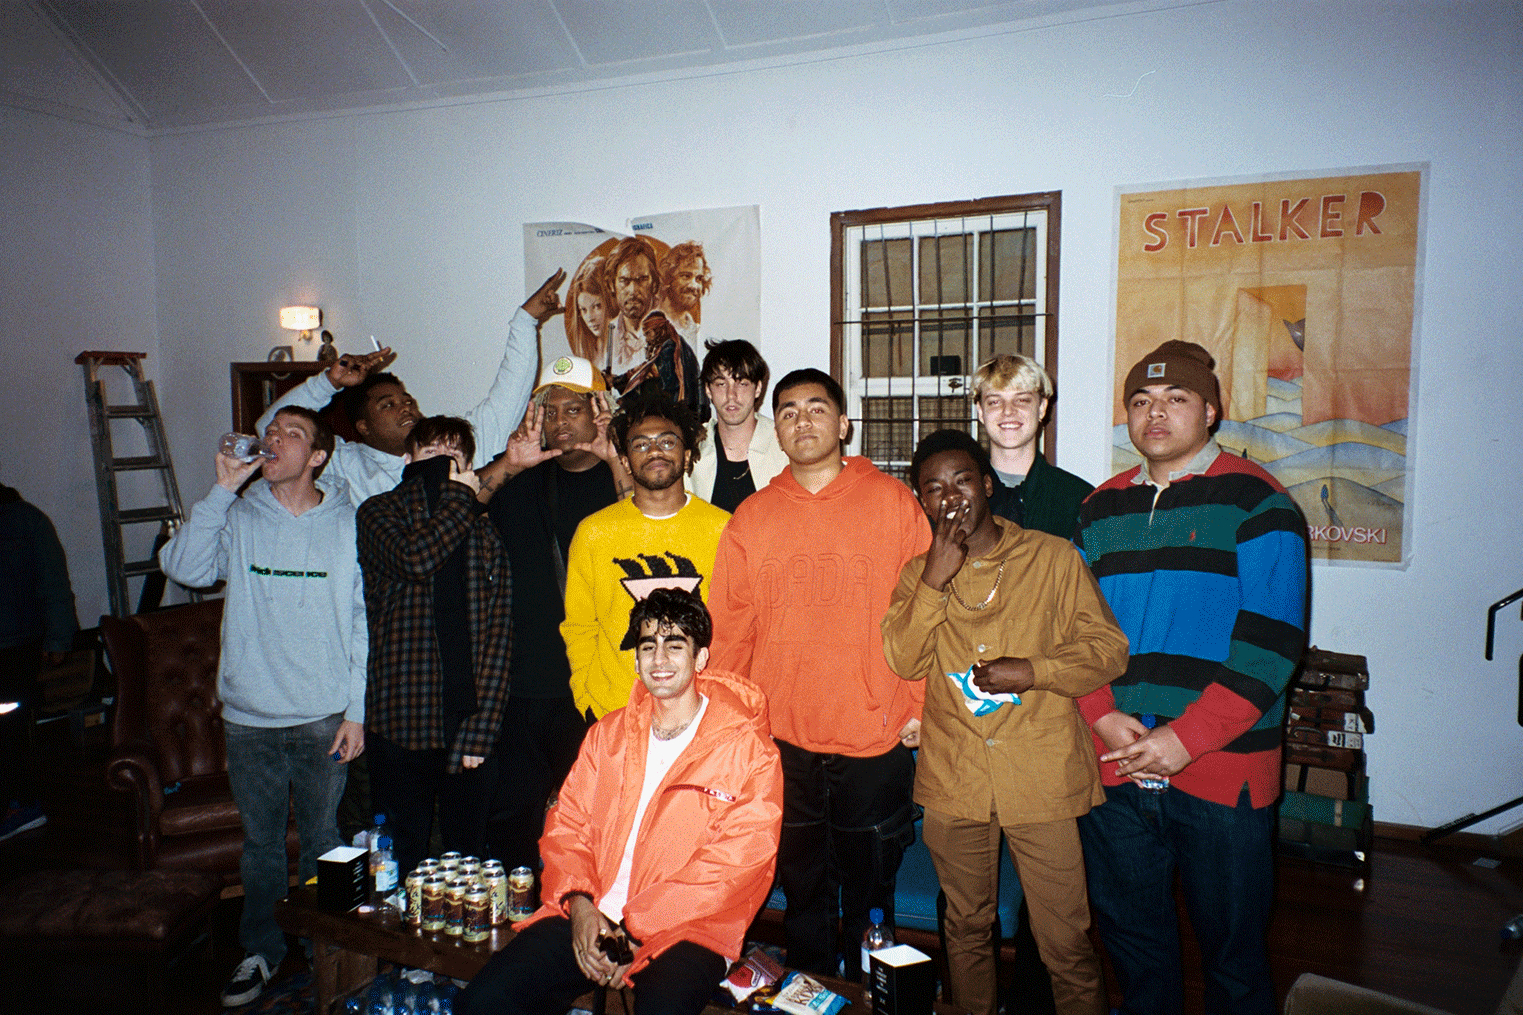
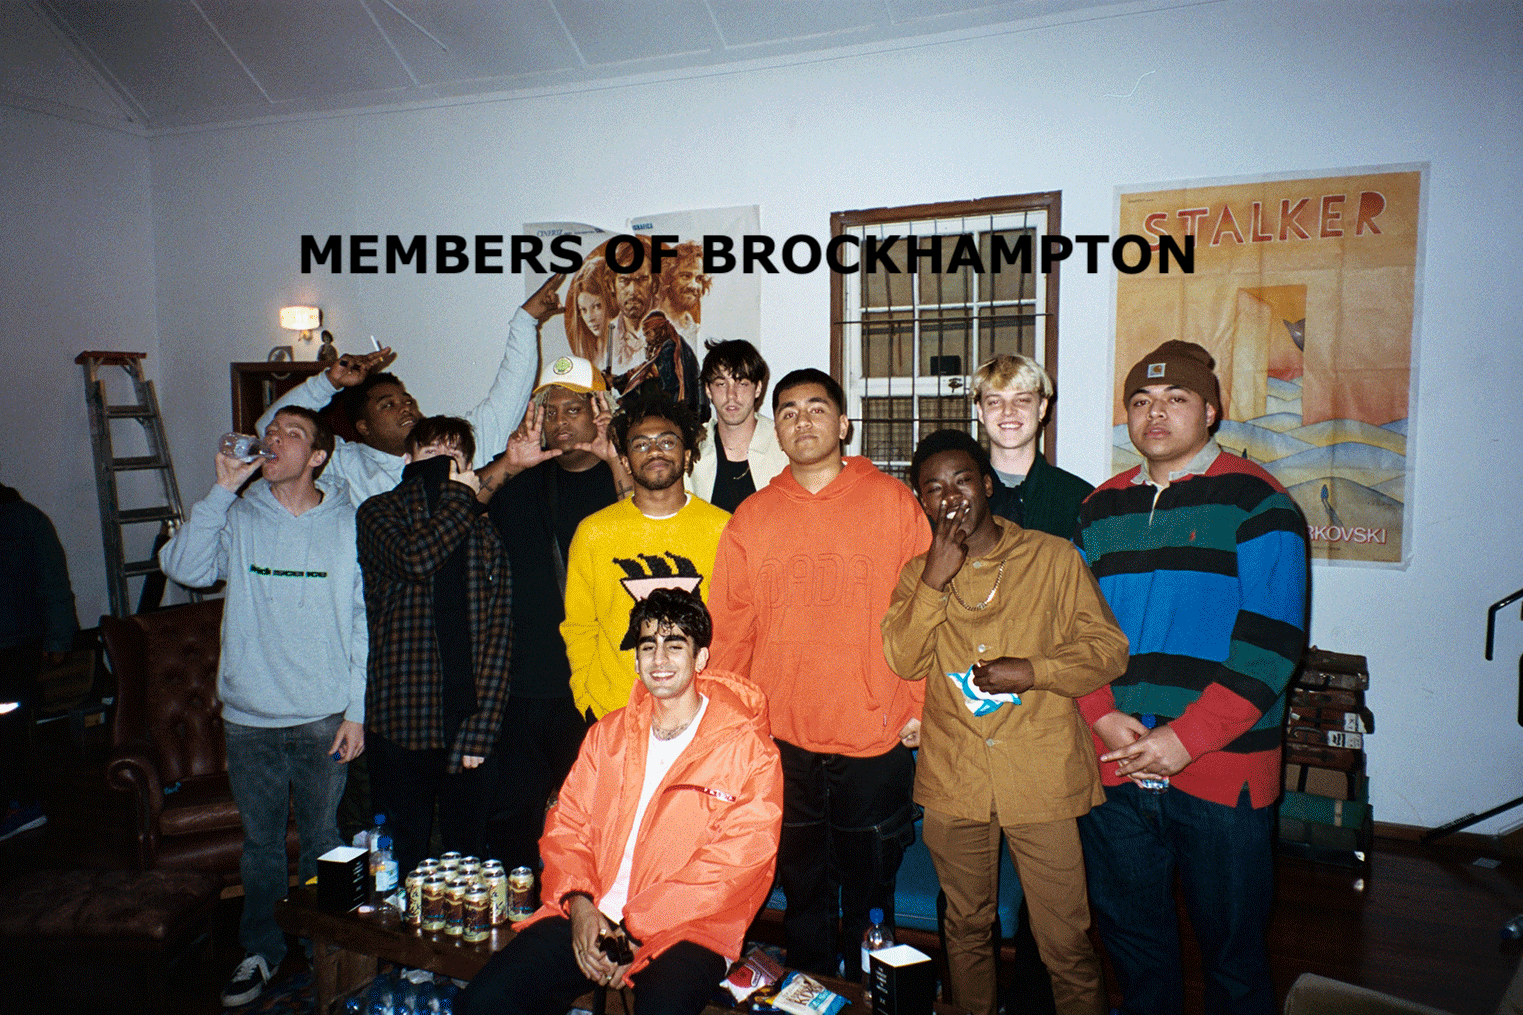
memberspage

Changed region(s): [[0.1852, 0.2138, 0.8024, 0.2749]]

diff --git a/members.html b/members.html
@@ -17,69 +17,69 @@
         <li><a href="https://17498.github.io/Website1/index.html">KERI</a></li>
     </ul>
 
-    <h1>MEMBERS OF BROCKHAMPTON</h1>
-
-    <div class="parallax"></div>
-    <div style="height:1000px;background-color:rgba(255, 0, 0, 0);">
-        <p>the vocals of BH</p>
-        <table class="a">
-
-            <tr>
-                <td width="15%"><img src="matt.png" width="55%" height="30%"></td>
-                <td width="35%"><h3>Matt Champion</h3>Birth Name: Matthew Champion <br> Born: 14 February, 1995 <br> Birth Place: Woodland, Texas <br> Role In BH: Rapper, Singer, Songwriter</td>
-                <td width="15"><img src="bearface.png" width="55%" height="30%"></td>
-                <td width="35"><h3>Bearface</h3>Birth Name: Ciarán McDonald <br> Born: 23 April, 1993 <br> Birth Place: Belfast, Ireland <br> Role In BH: Singer, record producer, instrumentalist</td>
-                </td>
-            </tr>
-            <tr>
-                <td width="15%"><img src="merlyn.png" width="55%" height="30%"></td>
-                <td width="35%"><h3>Meryln Wood</h3>Birth Name: William Anku Kraka <br>Mawuli Andoh Wood Jr. <br> Born: 1 May, 1996 <br> Birth Place: Accra, Ghana <br> Role In BH: Rapper, Songwriter</td>
-                <td width="15%"><img src="kevin.png" width="55%" height="30%"></td>
-                <td width="35"><h3>Kevin Abstract</h3>Birth Name: Clifford Ian Simpson <br> Born: 16 July 1996 <br> Birth Place: Corpus Christi, Texas <br> Role In BH: Rapper, Singer, Songwriter</td>
-            </tr>
-            <tr>
-                <td width="15%"><img src="joba.png" width="55%" height="30%"></td>
-                <td width="35"><h3>Joba</h3>Birth Name: Russel Boring <br> Born: 5 August 1993 <br> Birth Place: Houston, Texas <br> Role In BH: Rapper, singer, songwriter, audio engineer, record producer</td>
-                <td width="15%"><img src="dom.png" width="55%" height="30%"></td>
-                <td width="35"><h3>Dom McLennon</h3>Birth Name: Dominique Simpson <br> Born: 10 July, 1992 <br> Birth Place: East Hartford, Connecticut <br> Role In BH: Rapper, songwriter</td>
-            </tr>
-        </table>
-</div>
-  
-            
-<table class="a" style="background-color: rgba(77, 190, 218, 0.658);">
-<tr>
-<td>NonVocals of BH</td>
-</tr>
-<tr>
-    <td width="15"><img src="jambari1.png" width="55%" height="30%"></td>
-    <td width="35%"><h3>Jabari Manwa</h3>Birth Name: Jabari Chester Manwarring <br> Born: 3 September, 1995 <br> Birth Place: St. George's, Grenada <br> Role In BH: Producer</td>
-    <td width="15%"><img src="kiko1.png" width="55%" height="30%"></td>
-    <td width="35%"><h3>Kiko Merely</h3>Birth Name: Isaiah Merriweather <br> Born: 2 March, 1997<br> Birth Place: Jacksonville, Florida <br> Role In BH: Producer</td>
-</td>
-</tr>
-<tr>
-    <td width="15%"><img src="romil1.png" width="55%" height="30%"></td>
-    <td width="35"><h3>Romil Hemmani</h3>Birth Name: Romil Hemmani <br> Born: 6 April, 1995 <br> Birth Place: South Windsor, Connecticut <br> Role In BH: Record producer, DJ, audio engineer</td>
-    <td width="15%"><img src="jon1.png" width="55%" height="30%"></td>
-    <td width="35%"><h3>Jon Nunes</h3>Birth Name: Jon Nunes <br> Born: 12 July, 1992 <br> Birth Place: United States <br> Role In BH: Manager</td>
-</tr>
-<tr>
-    
-    <td width="15"><img src="hk1.png" width="55%" height="30%"></td>
-    <td width="35"><h3>HK </h3>Birth Name: Henock Sileshi <br> Born: 19 September, 1994  <br> Birth Place: Jacksonville, Florida <br> Role In BH: Creative director, graphic artist</td>
-    <td width="15%"><img src="robert1.png" width="55%" height="30%"></td>
-    <td width="35"><h3>Roberto </h3>Birth Name: Robert Ontenient <br> Born: 1 November, 1995 <br> Birth Place: Miami, Florida <br> Role In BH: Web and designer</td>
-</tr>
-<tr>
-    <td width="15%"><img src="ash.png" width="55%" height="30%"></td>
-    <td width="35%"><h3>Ashlan Grey</h3>Birth Name: Ashlan grey <br> Born: 4 August, 1995 <br> Birth Place: Glen Rose, Texas <br> Role In BH: Photographer, videographer</td>
-</tr>
+<div class="parallax"></div>
+<div style="height:200%;background-color:rgba(255, 255, 255, 0.925);">
+<table>
+    <tr>
+    <br><br>
+    <td><h2>Vocals of BH</h2></td>
+    </tr>
+    <tr>
+        <td width="15%"><img src="matt.png" width="55%" height="30%"></td>
+        <td width="35%"><h3>Matt Champion</h3>Birth Name: Matthew Champion <br> Born: 14 February, 1995 <br> Birth Place: Woodland, Texas <br> Role In BH: Rapper, Singer, Songwriter</td>
+        <td width="15"><img src="bearface.png" width="55%" height="30%"></td>
+        <td width="35"><h3>Bearface</h3>Birth Name: Ciarán McDonald <br> Born: 23 April, 1993 <br> Birth Place: Belfast, Ireland <br> Role In BH: Singer, record producer, instrumentalist</td>
+    </tr>
+    <tr>
+        <td width="15%"><img src="merlyn.png" width="55%" height="30%"></td>
+        <td width="35%"><h3>Meryln Wood</h3>Birth Name: William Anku Kraka <br>Mawuli Andoh Wood Jr. <br> Born: 1 May, 1996 <br> Birth Place: Accra, Ghana <br> Role In BH: Rapper, Songwriter</td>
+        <td width="15%"><img src="kevin.png" width="55%" height="30%"></td>
+        <td width="35"><h3>Kevin Abstract</h3>Birth Name: Clifford Ian Simpson <br> Born: 16 July 1996 <br> Birth Place: Corpus Christi, Texas <br> Role In BH: Rapper, Singer, Songwriter</td>
+    </tr>
+    <tr>
+        <td width="15%"><img src="joba.png" width="55%" height="30%"></td>
+        <td width="35"><h3>Joba</h3>Birth Name: Russel Boring <br> Born: 5 August 1993 <br> Birth Place: Houston, Texas <br> Role In BH: Rapper, singer, songwriter, audio engineer, record producer</td>
+        <td width="15%"><img src="dom.png" width="55%" height="30%"></td>
+        <td width="35"><h3>Dom McLennon</h3>Birth Name: Dominique Simpson <br> Born: 10 July, 1992 <br> Birth Place: East Hartford, Connecticut <br> Role In BH: Rapper, songwriter</td>
+    </tr>
 </table>
+
+<table style="background-color: rgba(77, 190, 218, 0.589);">
+    <tr>
+        <br><br>
+        <td><h2>NonVocals of BH</h2></td>
+    </tr>
+    <tr>
+        <td width="15%"><img src="jambari1.png" width="55%" height="30%"></td>
+        <td width=35%><h3>Jabari Manwa</h3> Birth Name: Jabari Chester Manwarring <br> Born: 3 September, 1995 <br> Birth Place: St. George's, Grenada <br> Role in Brockhampton: Producer</td>
+        <td width="15%"><img src="kiko1.png" width="55%" height="30%"></td>
+        <td width=35%><h3>Kiko Merely</h3> Birth Name: Isaiah Merriweather <br> Born: 2 March, 1997 <br> Birth Place: Jacksonville, Florida <br> Role in Brockhampton: Producer</td>
+    </tr>
+    <tr>
+        <td width="15%"><img src="romil1.png" width="55%" height="30%"></td>
+        <td width=35%><h3>Romil Hemmani</h3> Birth Name: Romil Hemmani <br> Born: 6 April, 1995 <br> Birth Place: South Windsor, Connecticut <br> Role In BH: Record producer, DJ, audio engineer</td>
+        <td width="15%"><img src="jon1.png" width="55%" height="30%"></td>
+        <td width=35%><h3>Jon Nunes</h3> Birth Name: Jon Nunes <br> Born: 12 July, 1992 <br> Birth Place: United States <br> Role In BH: Manager</td>
+    </tr>
+    <tr>         
+        <td width="15%"><img src="hk1.png" width="55%" height="30%"></td>
+        <td width=35%><h3>HK </h3>Birth Name: Henock Sileshi <br> Born: 19 September, 1994 <br>Birth Place: Jacksonville, Florida <br> Role In BH: Creative director, graphic artist</td>
+        <td width="15%"><img src="robert1.png" width="55%" height="30%"></td>
+        <td width=35%><h3>Roberto </h3>Birth Name: Robert Ontenient  <br> Born: 1 November, 1995 <br>Birth Place: Miami, Florida <br> Role In BH: Web and designer</td>
+    </tr>
+    <tr>
+        <td width="15%"><img src="ash.png" width="55%" height="30%"></td>
+        <td width=35%><h3>Ashlan Grey</h3>Birth Name: Ashlan grey<br> Born: 4 August, 1995 <br>Birth Place: Glen Rose, Texas  <br> Role In BH: Photographer, videographer</td>
+    </tr>
+    </table>
+        
+
+<div class="footer">
+</div>
         
 
+<div class="footer">
+    </div>
 
-        <div class="footer">
-        </div>
     </body>
 </html>

diff --git a/index.html b/index.html
@@ -23,9 +23,7 @@
         <slide><p>BROCKHAMPTON</p></slide>
         <slide><p></p></slide>
     </slider>
-    <br><br><br><br><br><br><br><br><br><br><br><br><br><br><br><br><br><br><br><br><br><br><br><br><br><br><br><br><br><br><br><br><br><br><p>                                                                       </p>
     <img src="brockhampton.jpg" width="95%" height="5%">
-    <br><br><br><br><br><br><br><br><br><br><br><br><br><br><br><br><br><br><br><br><br><br><br><br><br><br><br><br><br><br><br><br><br><br><br><br><br><br>
     Brockhampton is very cool Lorem ipsum, dolor sit amet consectetur adipisicing elit. Pariatur, ea veniam ducimus nesciunt quis culpa. Obcaecati sint neque officiis earum nostrum ullam atque tempora sed. Cum praesentium deserunt error facilis adipisci, officiis, odio veritatis et nisi tenetur necessitatibus culpa iusto sapiente nam consequuntur aliquid. Quod molestiae alias nisi libero laboriosam molestias reprehenderit nihil quasi quidem? Molestias laborum odit distinctio similique quisquam atque debitis, iusto architecto eius illum obcaecati explicabo! Quae accusamus at deserunt voluptatum omnis sit ea mollitia quibusdam nam doloremque ad sequi eligendi hic pariatur, aspernatur aliquam voluptas impedit reiciendis porro eum assumenda, reprehenderit suscipit! Maiores, fugit ea placeat provident laboriosam totam nam quia tempore porro deleniti tempora error. Ea maxime harum magnam officia eos ab aliquid autem quia voluptatum incidunt molestiae, cumque quibusdam impedit dicta neque est minima id numquam optio perspiciatis! Consequuntur, repellat aspernatur sed laudantium porro id quisquam similique explicabo ipsa at quas ipsam expedita vel ducimus facilis! Ex accusantium voluptate error ipsam suscipit eius asperiores voluptas, consequuntur voluptatum? Doloribus illum veritatis ut tempora quos voluptas ex accusantium ratione velit. Veritatis corrupti ratione ad nihil dolorem accusamus quo impedit. Omnis alias tempore modi, voluptate eaque autem quam dicta iure ex nemo commodi quae aliquid animi praesentium hic cumque, cum in et officiis eveniet accusamus sequi. Autem debitis provident voluptates tenetur. Eius et, accusamus consequatur odio velit ab? Nobis amet voluptatem quibusdam nostrum error perferendis doloremque eos culpa explicabo officia, inventore sapiente commodi blanditiis autem non omnis aliquam assumenda numquam qui minus, pariatur iure soluta nisi praesentium? Quibusdam dolorum qui maxime provident numquam libero quisquam nesciunt perferendis. 
 </div>
 <br>

diff --git a/stylesheet.css b/stylesheet.css
@@ -1,6 +1,7 @@
 body {
     margin: 5%;
     text-align: justify;
+    font-family: Verdana, Geneva, Tahoma, sans-serif;
     padding: 5px;
 }
 
@@ -84,7 +85,7 @@ slide:nth-child(4){
 }
 
 slide p {
-    font-family: Comfortaa;
+    font-family: Veranda;
     font-size: 70px;
     text-align: center;
     display: inline-block;
@@ -106,10 +107,7 @@ img {
     float: justify;
     margin: 2%;
 }
-div {
-    column-count: 2;
-    column-width: 60% 40%;
-  }
+
 
 h1 {
     font-family: Arial;
@@ -118,6 +116,7 @@ h1 {
 }
 p {
     margin: 5%;
+    font-family: Verdana, Geneva, Tahoma, sans-serif;
     text-align: justify;
 }
 
@@ -133,8 +132,6 @@ th,td {
     padding: 15px;
 }
 
-table.a {     
-}
 
 div.polaroid {
     width: 100%;
@@ -161,15 +158,84 @@ div.polaroid {
 
 
 .parallax {
-/* The image used */
 background-image: url("brocky.jpg");
-
-/* Set a specific height */
-min-height: 500px; 
-
-/* Create the parallax scrolling effect */
+min-height: 65%; 
 background-attachment: fixed;
 background-position: center;
 background-repeat: no-repeat;
 background-size: cover;
 }
+
+/* Colour Split in Social Media Page */
+
+.split {
+    height: 100%;
+    width: 50%;
+    position: fixed;
+    z-index: 1;
+    top: 7;
+    overflow-x: hidden;
+    padding-top: 20px;
+  }
+  
+  .left {
+    left: 0;
+    background-color: rgb(17, 17, 17);
+  }
+  
+  #logo{
+    width: 150%;
+    height: 200%;
+  }
+  
+  .right {
+    right: 0;
+    background-color: rgb(77, 189, 218);
+  }
+  
+  .centered {
+    position: absolute;
+    top: 50%;
+    left: 50%;
+    transform: translate(-50%, -50%);
+    text-align: center;
+  }
+  
+  .centered img {
+    width: 150px;
+    border-radius: 50%;
+  }
+  
+  .fa {
+    padding: 20px;
+    font-size: 30px;
+    width: 50px;
+    text-align: center;
+    text-decoration: none;
+    margin: 5px 2px;
+  }
+  
+  .fa:hover {
+      opacity: 0.7;
+  }
+  
+  .fa-twitter {
+    background: rgba(255, 255, 255, 0);
+    color: white;
+  }
+  
+  .fa-youtube {
+    background: #7c2a2a00;
+    color: white;
+  }
+  
+  .fa-instagram {
+    background: #ffffff00;
+    color: white;
+  }
+  
+  .fa-soundcloud {
+    background: #ff550000;
+    color: white;
+  }
+  

diff --git a/style.css b/style.css
@@ -1,76 +1,30 @@
-
 body {
-  font-family: Arial;
+  margin: 5%;
+  text-align: justify;
+  padding: 5px;
+}
+
+/* Navbar */
+ul {
+  list-style-type: none;
+  margin: 0;
+  padding: 0;
+  overflow: hidden;
+  background-color: #333;
+}
+
+li {
+  float: left;
+}
+
+li a {
+  display: block;
   color: white;
-}
-.split {
-  height: 100%;
-  width: 50%;
-  position: fixed;
-  z-index: 1;
-  top: 7;
-  overflow-x: hidden;
-  padding-top: 20px;
-}
-
-.left {
-  left: 0;
-  background-color: rgb(17, 17, 17);
-}
-
-#logo{
-  width: 150%;
-  height: 200%;
-}
-
-.right {
-  right: 0;
-  background-color: rgb(77, 189, 218);
-}
-
-.centered {
-  position: absolute;
-  top: 50%;
-  left: 50%;
-  transform: translate(-50%, -50%);
   text-align: center;
-}
-
-.centered img {
-  width: 150px;
-  border-radius: 50%;
-}
-
-
-.fa {
-  padding: 20px;
-  font-size: 30px;
-  width: 50px;
-  text-align: center;
+  padding: 14px 16px;
   text-decoration: none;
-  margin: 5px 2px;
 }
 
-.fa:hover {
-    opacity: 0.7;
-}
-
-.fa-twitter {
-  background: rgba(255, 255, 255, 0);
-  color: white;
-}
-
-.fa-youtube {
-  background: #7c2a2a00;
-  color: white;
-}
-
-.fa-instagram {
-  background: #ffffff00;
-  color: white;
-}
-
-.fa-soundcloud {
-  background: #ff550000;
-  color: white;
+li a:hover {
+  background-color: #111;
 }
